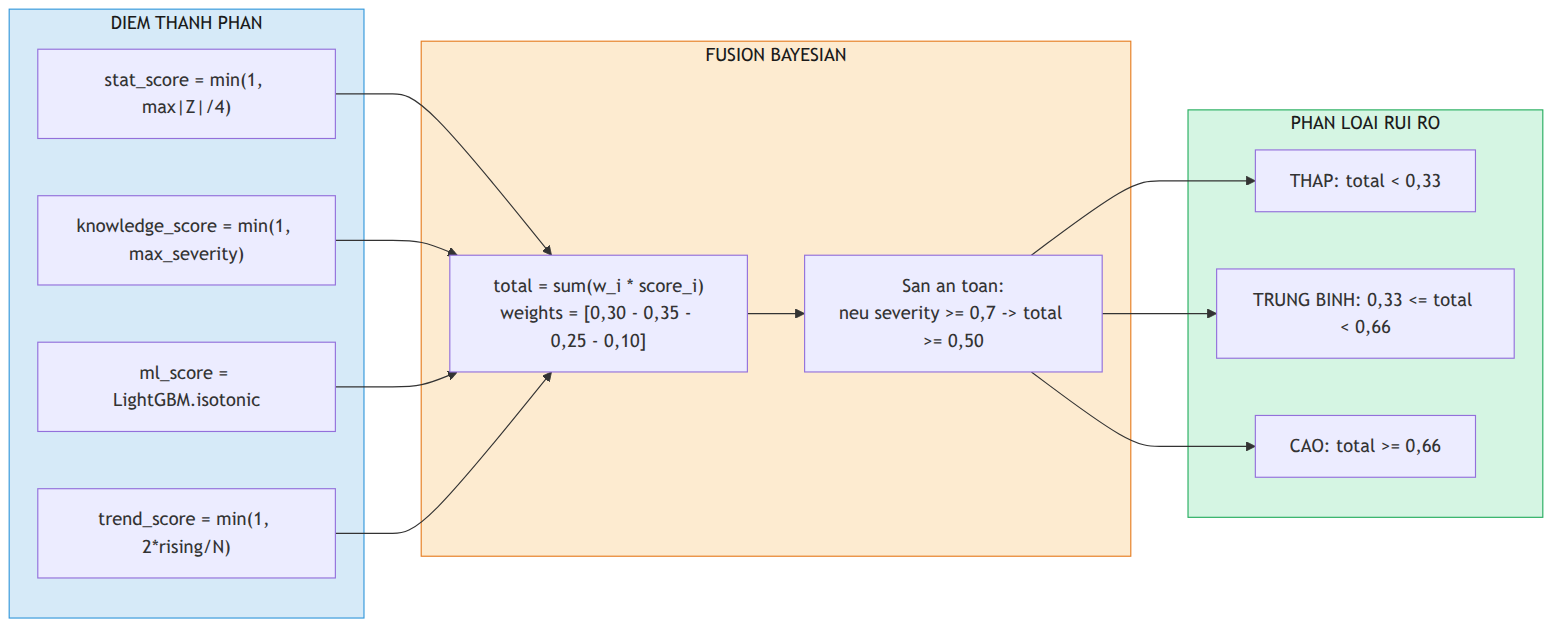
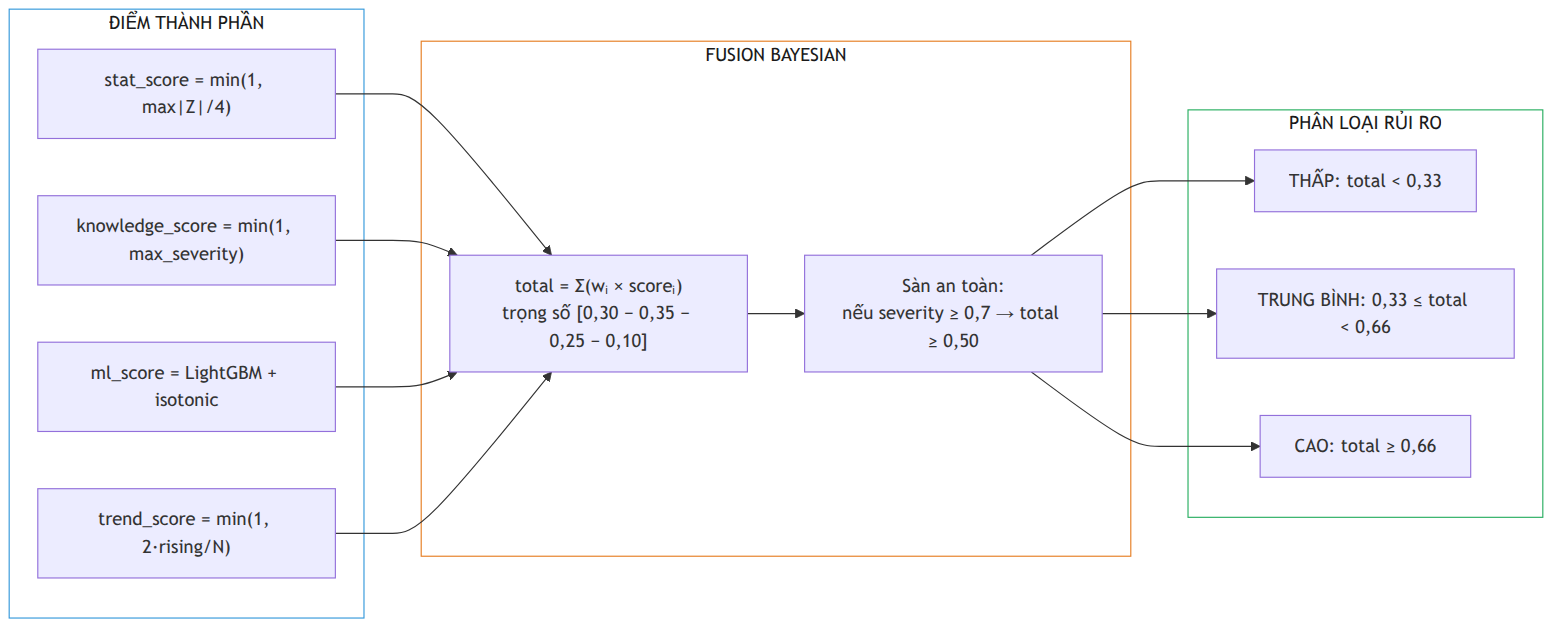
fig7-10: đổi sang mermaid block, tiếng Việt đủ dấu, bỏ nền; xóa plot matplotlib

diff --git a/scripts/generate_paper_figures.py b/scripts/generate_paper_figures.py
@@ -375,33 +375,33 @@ def fig6_delta():
 
 
 # ---------------------------------------------------------------------------
-# Hình 7: Kiến trúc tổng thể ba tầng — Mermaid 3D box (không emoji)
+# Hình 7: Kiến trúc tổng thể ba tầng — Mermaid block (không emoji, không nền)
 # ---------------------------------------------------------------------------
 FIG7_MMD = """flowchart TB
-    subgraph IN["DONG VAO: Chuoi thoi gian chi so co the"]
-        A["10 chi so: HA, nhip_tim, SpO2, glucose,\nHbA1c, creatinine, eGFR, BMI, cholesterol,\ntriglyceride"]
+    subgraph IN["ĐẦU VÀO: Chuỗi thời gian chỉ số cơ thể"]
+        A["10 chỉ số: HA, nhịp_tim, SpO2, glucose,<br/>HbA1c, creatinine, eGFR, BMI, cholesterol,<br/>triglyceride"]
     end
 
-    subgraph T1["TANG 1 - PHAT HIEN BAT THUONG CA NHAN HOA"]
-        T1A["Z-Score ca nhan\n|Z| >= 2,0, cua so 90 ngay"]
-        T1B["Isolation Forest\ncontamination = 0,05"]
-        T1C["EWMA crossing\nlambda = 0,2"]
-        T1D["Sai so du bao\nalpha = 0,3, |Z| >= 2,5"]
+    subgraph T1["TẦNG 1 — PHÁT HIỆN BẤT THƯỜNG CÁ NHÂN HÓA"]
+        T1A["Z-Score cá nhân<br/>|Z| ≥ 2,0, cửa sổ 90 ngày"]
+        T1B["Isolation Forest<br/>contamination = 0,05"]
+        T1C["EWMA crossing<br/>λ = 0,2"]
+        T1D["Sai số dự báo<br/>α = 0,3, |Z| ≥ 2,5"]
     end
 
-    subgraph T2["TANG 2 - ANH XA TRI THUC Y KHOA"]
-        T2A["Rule Engine\n9 luat, JSON + governance"]
-        T2B["Kich hoat luat theo severity\nseverity thuoc [0,5 - 0,9]"]
+    subgraph T2["TẦNG 2 — ÁNH XẠ TRI THỨC Y KHOA"]
+        T2A["Rule Engine<br/>9 luật, JSON + governance"]
+        T2B["Kích hoạt luật theo severity<br/>severity ∈ [0,5 − 0,9]"]
     end
 
-    subgraph T3["TANG 3 - TONG HOP RUI RO & QUYET DINH"]
-        T3A["Fusion Bayesian\ntrong so [0,30 - 0,35 - 0,25 - 0,10]"]
-        T3B["Hieu chinh isotonic\nECE 1,7% -> 0,0%"]
-        T3C["San an toan\nseverity >= 0,7 -> score >= 0,50"]
-        T3D["Muc rui ro\nTHAP, TRUNG BINH, CAO"]
+    subgraph T3["TẦNG 3 — TỔNG HỢP RỦI RO & QUYẾT ĐỊNH"]
+        T3A["Fusion Bayesian<br/>trọng số [0,30 − 0,35 − 0,25 − 0,10]"]
+        T3B["Hiệu chỉnh isotonic<br/>ECE 1,7% → 0,0%"]
+        T3C["Sàn an toàn<br/>severity ≥ 0,7 → score ≥ 0,50"]
+        T3D["Mức rủi ro<br/>THẤP, TRUNG BÌNH, CAO"]
     end
 
-    ML["LightGBM\nhieu chinh isotonic"]
+    ML["LightGBM<br/>hiệu chỉnh isotonic"]
 
     A --> T1A
     A --> T1B
@@ -427,39 +427,39 @@ FIG7_MMD = """flowchart TB
 
 
 # ---------------------------------------------------------------------------
-# Hình 8: Chi tiết Tầng 1 — 4 mô-đun phát hiện bất thường
+# Hình 8: Chi tiết Tầng 1 — 4 mô-đun phát hiện bất thường (mermaid, không nền)
 # ---------------------------------------------------------------------------
 FIG8_MMD = """flowchart LR
-    subgraph RAW["DULIEU DAU VAO"]
-        D1["df_wide\nn_ngay x 10 chi so"]
+    subgraph RAW["DỮ LIỆU ĐẦU VÀO"]
+        D1["df_wide<br/>n_ngày × 10 chỉ số"]
     end
 
-    subgraph PRE["TIEN XU LY"]
+    subgraph PRE["TIỀN XỬ LÝ"]
         P1["resample_to_daily()"]
-        P2["impute_missing(gioi han 30%)"]
-        P3["build_baseline(cua so 90 ngay)"]
+        P2["impute_missing (giới hạn 30%)"]
+        P3["build_baseline (cửa sổ 90 ngày)"]
     end
 
-    subgraph ZS["Z-SCORE CA NHAN"]
-        Z1["Z = (x - mu_base) / sigma_base"]
-        Z2["flagged neu |Z| >= 2,0"]
+    subgraph ZS["Z-SCORE CÁ NHÂN"]
+        Z1["Z = (x − μ_base) / σ_base"]
+        Z2["flagged nếu |Z| ≥ 2,0"]
         Z3["trend: rising, falling, stable"]
     end
 
     subgraph IF["ISOLATION FOREST"]
-        I1["Features: 30 ngay rolling mean/std"]
+        I1["Features: 30 ngày rolling mean/std"]
         I2["contamination = 0,05"]
-        I3["anomaly_score -> flagged"]
+        I3["anomaly_score → flagged"]
     end
 
-    subgraph EW["EWMA & DU BAO"]
-        E1["EWMA(lambda = 0,2)"]
-        E2["forecast_error = x_t - EWMA_t"]
-        E3["flagged neu |z_forecast| >= 2,5"]
+    subgraph EW["EWMA & DỰ BÁO"]
+        E1["EWMA (λ = 0,2)"]
+        E2["forecast_error = x_t − EWMA_t"]
+        E3["flagged nếu |z_forecast| ≥ 2,5"]
     end
 
-    subgraph OUT["DAU RA"]
-        O1["AnomalyRecord[]\nmetric, z_score, flagged,\ntrend, forecast_z"]
+    subgraph OUT["ĐẦU RA"]
+        O1["AnomalyRecord[]<br/>metric, z_score, flagged,<br/>trend, forecast_z"]
     end
 
     D1 --> P1
@@ -472,38 +472,38 @@ FIG8_MMD = """flowchart LR
     IF --> O1
     EW --> O1
 
-    style RAW fill:#e8e8e8,stroke:#888888,color:#222222
-    style PRE fill:#f5f5f5,stroke:#999999,color:#1a1a1a
-    style ZS fill:#d6eaf8,stroke:#3498db,color:#1a1a1a
-    style IF fill:#e8daef,stroke:#8e44ad,color:#1a1a1a
-    style EW fill:#d5f5e3,stroke:#27ae60,color:#1a1a1a
-    style OUT fill:#fdebd0,stroke:#e67e22,color:#1a1a1a
+    style RAW fill:#ffffff,stroke:#888888,color:#222222
+    style PRE fill:#ffffff,stroke:#999999,color:#1a1a1a
+    style ZS fill:#ffffff,stroke:#3498db,color:#1a1a1a
+    style IF fill:#ffffff,stroke:#8e44ad,color:#1a1a1a
+    style EW fill:#ffffff,stroke:#27ae60,color:#1a1a1a
+    style OUT fill:#ffffff,stroke:#e67e22,color:#1a1a1a
 """
 
 
 # ---------------------------------------------------------------------------
-# Hình 9: Chi tiết Tầng 2 — Rule Engine và Knowledge Base
+# Hình 9: Chi tiết Tầng 2 — Rule Engine và Knowledge Base (mermaid, không nền)
 # ---------------------------------------------------------------------------
 FIG9_MMD = """flowchart TB
-    subgraph SNAP["SNAPSHOT HIEN TAI"]
+    subgraph SNAP["SNAPSHOT HIỆN TẠI"]
         S1["snapshot = metric: value"]
     end
 
-    subgraph KB["KNOWLEDGE BASE - knowledge_base.json"]
+    subgraph KB["KNOWLEDGE BASE — knowledge_base.json"]
         K1["metrics: metadata + ranges"]
-        K2["system_labels: 5 he thong co quan"]
-        K3["rules: 9 luat hoat dong\nAND/OR logic + modes"]
+        K2["system_labels: 5 hệ thống cơ quan"]
+        K3["rules: 9 luật hoạt động<br/>AND/OR logic + modes"]
     end
 
-    subgraph EVAL["DANH GIA LUAT"]
+    subgraph EVAL["ĐÁNH GIÁ LUẬT"]
         E1["normalize_modes(modes)"]
-        E2["for rule in rules:\n  if status == active\n  va _rule_in_modes(rule, modes)"]
-        E3["_eval_condition(cond, snapshot)\n  ho tro nested AND/OR"]
+        E2["for rule in rules:<br/>nếu status == active<br/>và _rule_in_modes(rule, modes)"]
+        E3["_eval_condition(cond, snapshot)<br/>hỗ trợ nested AND/OR"]
         E4["collect matched_metrics"]
     end
 
-    subgraph OUT["DAU RA: RuleHit objects"]
-        O1["RuleHit: rule_id, severity,\nsystem, specialty, evidence,\nmatched_metrics, source_url"]
+    subgraph OUT["ĐẦU RA: RuleHit objects"]
+        O1["RuleHit: rule_id, severity,<br/>system, specialty, evidence,<br/>matched_metrics, source_url"]
     end
 
     SNAP --> EVAL
@@ -513,33 +513,33 @@ FIG9_MMD = """flowchart TB
     E3 --> E4
     E4 --> OUT
 
-    style SNAP fill:#e8e8e8,stroke:#888888,color:#222222
-    style KB fill:#fdebd0,stroke:#e67e22,color:#1a1a1a
-    style EVAL fill:#d6eaf8,stroke:#3498db,color:#1a1a1a
-    style OUT fill:#d5f5e3,stroke:#27ae60,color:#1a1a1a
+    style SNAP fill:#ffffff,stroke:#888888,color:#222222
+    style KB fill:#ffffff,stroke:#e67e22,color:#1a1a1a
+    style EVAL fill:#ffffff,stroke:#3498db,color:#1a1a1a
+    style OUT fill:#ffffff,stroke:#27ae60,color:#1a1a1a
 """
 
 
 # ---------------------------------------------------------------------------
-# Hình 10: Chi tiết Tầng 3 — Fusion Bayesian + Isotonic + Phân loại
+# Hình 10: Chi tiết Tầng 3 — Fusion Bayesian + Isotonic + Phân loại (mermaid)
 # ---------------------------------------------------------------------------
 FIG10_MMD = """flowchart LR
-    subgraph COMP["DIEM THANH PHAN"]
+    subgraph COMP["ĐIỂM THÀNH PHẦN"]
         C1["stat_score = min(1, max|Z|/4)"]
         C2["knowledge_score = min(1, max_severity)"]
-        C3["ml_score = LightGBM.isotonic"]
-        C4["trend_score = min(1, 2*rising/N)"]
+        C3["ml_score = LightGBM + isotonic"]
+        C4["trend_score = min(1, 2·rising/N)"]
     end
 
     subgraph FUS["FUSION BAYESIAN"]
-        F1["total = sum(w_i * score_i)\nweights = [0,30 - 0,35 - 0,25 - 0,10]"]
-        F2["San an toan:\nneu severity >= 0,7 -> total >= 0,50"]
+        F1["total = Σ(wᵢ × scoreᵢ)<br/>trọng số [0,30 − 0,35 − 0,25 − 0,10]"]
+        F2["Sàn an toàn:<br/>nếu severity ≥ 0,7 → total ≥ 0,50"]
     end
 
-    subgraph THRESH["PHAN LOAI RUI RO"]
-        T1["THAP: total < 0,33"]
-        T2["TRUNG BINH: 0,33 <= total < 0,66"]
-        T3["CAO: total >= 0,66"]
+    subgraph THRESH["PHÂN LOẠI RỦI RO"]
+        T1["THẤP: total < 0,33"]
+        T2["TRUNG BÌNH: 0,33 ≤ total < 0,66"]
+        T3["CAO: total ≥ 0,66"]
     end
 
     C1 --> F1
@@ -551,9 +551,9 @@ FIG10_MMD = """flowchart LR
     F2 --> T2
     F2 --> T3
 
-    style COMP fill:#d6eaf8,stroke:#3498db,color:#1a1a1a
-    style FUS fill:#fdebd0,stroke:#e67e22,color:#1a1a1a
-    style THRESH fill:#d5f5e3,stroke:#27ae60,color:#1a1a1a
+    style COMP fill:#ffffff,stroke:#3498db,color:#1a1a1a
+    style FUS fill:#ffffff,stroke:#e67e22,color:#1a1a1a
+    style THRESH fill:#ffffff,stroke:#27ae60,color:#1a1a1a
 """
 
 
